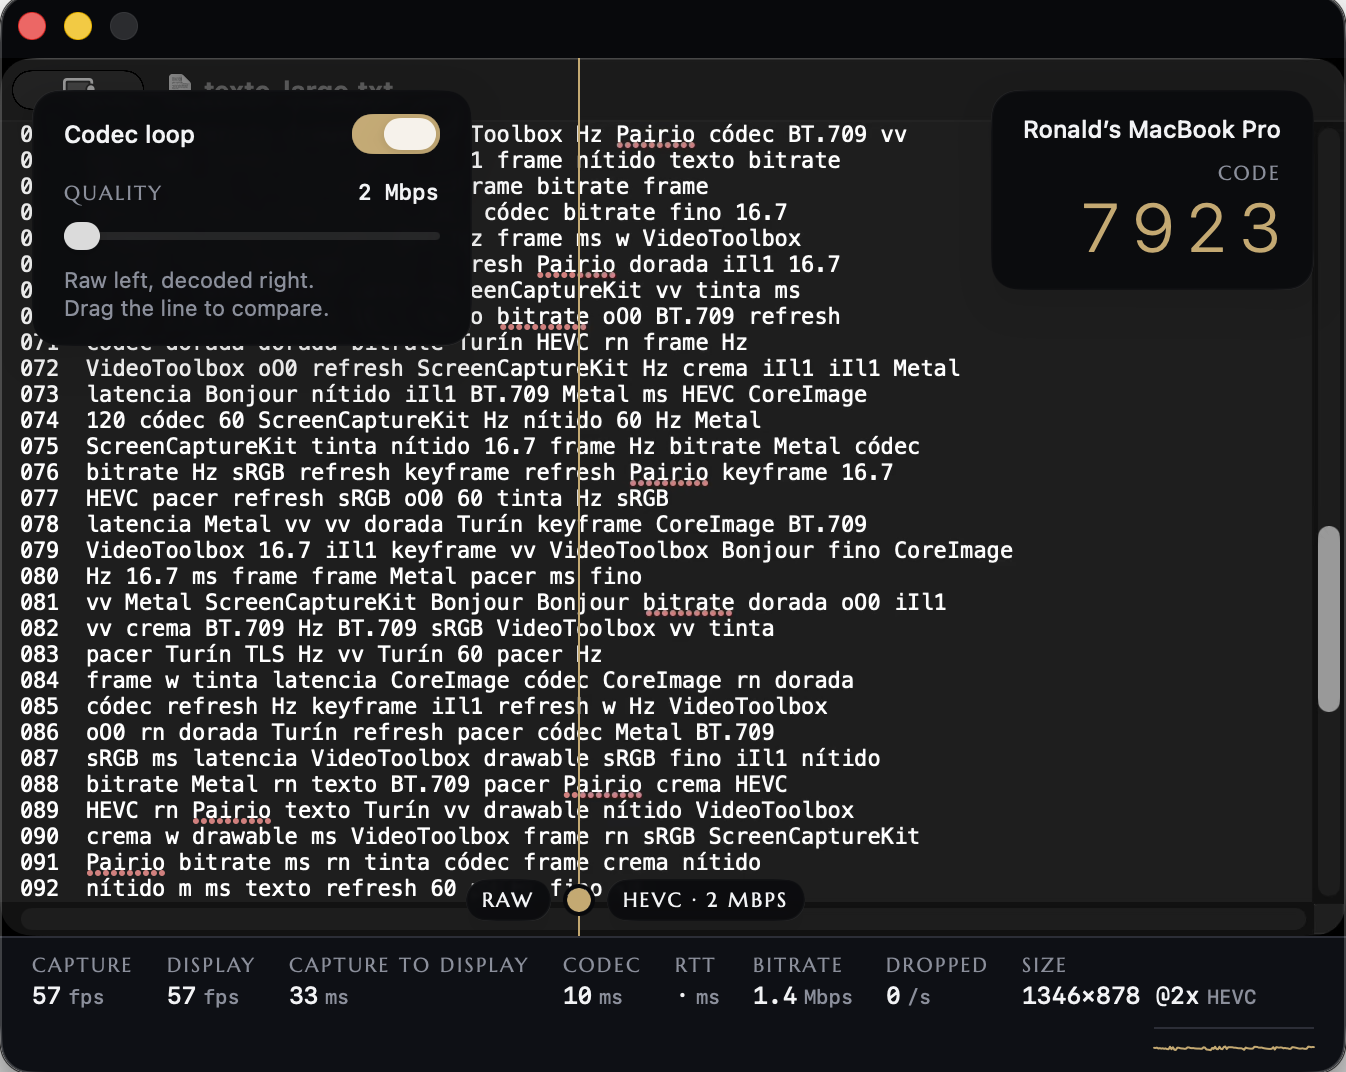
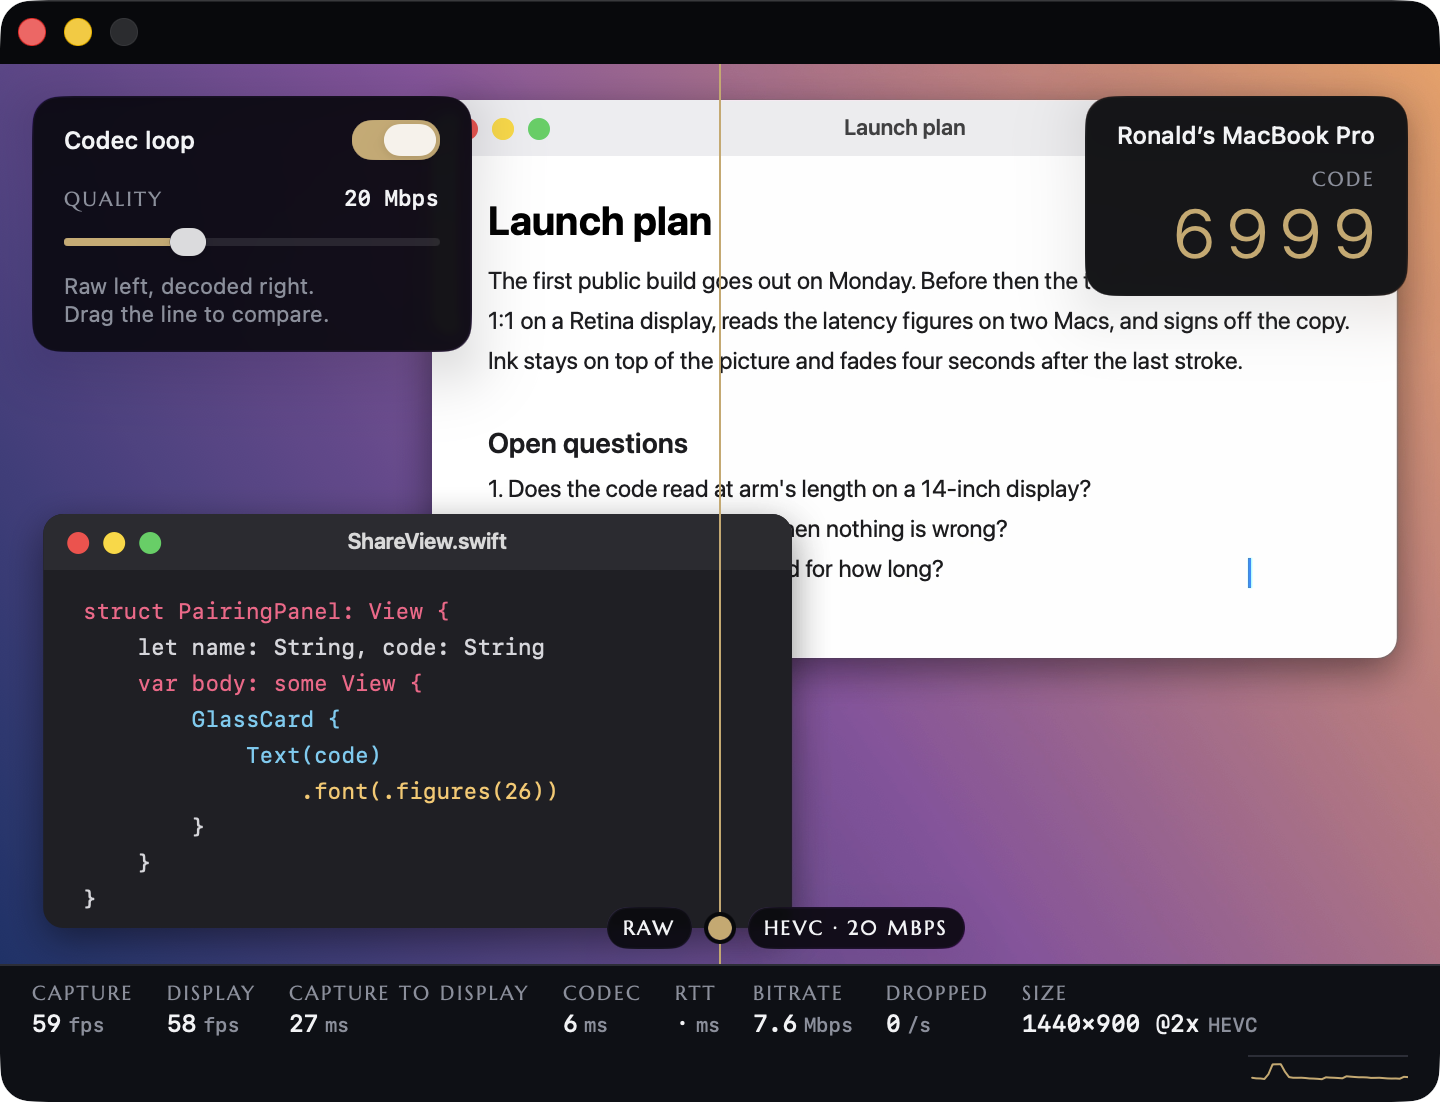
docs(readme): the codec loop from the harness, the strip cropped to itself, the GIF's caption says what its strip is
- 02-share-loopback.png is the README reel's still of the codec loop: the
  window alone at 2x over the synthetic desktop, the switch and the slider in
  gold, the divider on screen. The old one was a Spanish word list with
  "Pairio" under a spell-check squiggle six times.
- 04-strip.png keeps the strip alone: the window's bottom edge and rounded
  corners with a transparent outside, without the black below it or the
  divider's stub above it. Shown at its own width, 673.
- The GIF's caption says it was recorded at 2x, that its viewer is named as a
  second Mac, and that its strip is live but not a measurement (one process
  plays both Macs while the screen is recorded, and the figures do not roll).
- docs/testing.md step 2 names what comes from the app (01 and 04) and from
  the harness (the GIF and 02 from the README's reel, 03 and 05 from the
  window gallery), and asks for every sixth frame of the GIF to be looked at.

diff --git a/README.md b/README.md
@@ -16,9 +16,9 @@
 </p>
 
 <p align="center">
-  <img src="docs/screenshots/loop.gif" width="900" alt="Twenty seconds of Nítido: the launch, a press on Share, the picture arriving with its code, a viewer pairing and its gold ring, a stroke from each side, the codec loop switched on and its divider dragged, the strokes fading, the quality lowered, and Stop back to Welcome">
+  <img src="docs/screenshots/loop.gif" width="800" alt="Twenty seconds of Nítido, from Welcome back to Welcome: a press on Share, the picture arriving with its code, a second Mac pairing with a gold ring round its name, a stroke from each side, the codec loop switched on and its divider dragged, the strokes fading, the quality lowered, the loop off, and Stop">
 </p>
-<p align="center"><sub>One take through the render harness: the app's own screens and models, a synthetic desktop shared to a viewer over the loopback link, an arrow drawn where the harness clicks. Every timing is listed under <a href="#motion">Motion</a>.</sub></p>
+<p align="center"><sub>One take through the render harness, recorded at 2x: the app's own screens and models, a synthetic desktop shared over the loopback link to a viewer named as a second Mac, and an arrow drawn where the harness clicks. The strip is live but is not a measurement: one process plays both Macs while the screen is recorded, so its dropped frames are the take's, and its figures change without their roll, which 15 fps would catch halfway. Every timing is listed under <a href="#motion">Motion</a>.</sub></p>
 
 A native macOS app that shares a window or a screen to another Mac on the local network. Swift 6.2, ScreenCaptureKit, VideoToolbox, Network.framework and Metal; no third-party code.
 
@@ -38,10 +38,10 @@ I built it in a week in October 2026, as a prototype of the core loop of a pair-
 | <img src="docs/screenshots/01-welcome.png" width="380" alt="Welcome"> | <img src="docs/screenshots/05-pairing.png" width="380" alt="The viewer typing the sharer's 4-digit code (captured from the real window through the render harness)"> |
 |:---:|:---:|
 | **Welcome.** Share this Mac, or view another. | **Pairing.** The viewer types the 4-digit code the sharer shows. |
-| <img src="docs/screenshots/02-share-loopback.png" width="380" alt="The codec loop: the raw capture left of the divider, HEVC at the slider's bitrate right of it"> | <img src="docs/screenshots/03-viewer.png" width="380" alt="The viewer paired over loopback, with ink from both sides and the sharer's pointer (captured from the real window through the render harness over a synthetic desktop)"> |
-| **The codec loop.** Raw capture left of the divider, HEVC at the slider's bitrate right of it. | **The viewer.** Ink from both sides and the sharer's pointer (render harness, synthetic desktop). |
+| <img src="docs/screenshots/02-share-loopback.png" width="380" alt="The codec loop over a synthetic desktop: the raw capture left of the divider, HEVC at 20 Mbps right of it, the switch and the quality slider in gold (captured from the real window through the render harness)"> | <img src="docs/screenshots/03-viewer.png" width="380" alt="The viewer paired over loopback, with ink from both sides and the sharer's pointer (captured from the real window through the render harness over a synthetic desktop)"> |
+| **The codec loop.** Raw capture left of the divider, HEVC at the slider's bitrate right of it (render harness, synthetic desktop). | **The viewer.** Ink from both sides and the sharer's pointer (render harness, synthetic desktop). |
 
-<p align="center"><img src="docs/screenshots/04-strip.png" width="820" alt="The telemetry strip"></p>
+<p align="center"><img src="docs/screenshots/04-strip.png" width="673" alt="The telemetry strip during a codec loop in the app: capture and display rates, capture to display, codec time, RTT, bitrate, dropped frames, size and codec, and the latency sparkline"></p>
 <p align="center"><sub><b>The telemetry strip.</b> Every figure under the picture, four times a second; the Measured table below was read from it.</sub></p>
 
 ## Motion
@@ -63,7 +63,7 @@ Every value here is a token in `Theme.Motion` ([`Theme.swift`](Sources/NitidoUI/
 | Ink | Strokes fade | 4 s after the last point, over 600 ms; the other Mac sees an undo rewind over 180 ms |
 | Reconnecting | The status dot breathes, the last frame dims | 1.2 s each way; 20 % |
 
-Keyboard actions repeated often (⌘H, ⌘L, ⌘Z, ⌘⌫, Esc) change things at once, the window's size included. The breathing dot and the sparkline run on Core Animation, so they never tick the main thread; the ink ticks on the main thread at 30 Hz only while a stroke fades, and the code types itself in on a SwiftUI timeline. Reduce Motion takes away every scale, rise and slide, the window's animated resize, the ring, the shake, the glint and the breathing, and keeps the fades at the same timings. The GIF at the top comes from `NITIDO_RENDER=1 NITIDO_README=1 NITIDO_MOTION_DIR=<dir> swift test --filter RenderGallery/testReadmeReel`, which writes `<dir>/clips/loop.gif`; it was recorded on 0.2, so its strip still shows the partial counts of the picture's first second.
+Keyboard actions repeated often (⌘H, ⌘L, ⌘Z, ⌘⌫, Esc) change things at once, the window's size included. The breathing dot and the sparkline run on Core Animation, so they never tick the main thread; the ink ticks on the main thread at 30 Hz only while a stroke fades, and the code types itself in on a SwiftUI timeline. Reduce Motion takes away every scale, rise and slide, the window's animated resize, the ring, the shake, the glint and the breathing, and keeps the fades at the same timings. The GIF at the top comes from `NITIDO_RENDER=1 NITIDO_README=1 NITIDO_MOTION_DIR=<dir> swift test --filter RenderGallery/testReadmeReel`, which writes `<dir>/clips/loop.gif` and the codec loop's still under Screens, `<dir>/clips/codec-loop.png`.
 
 ## Try it in a minute
 

diff --git a/docs/testing.md b/docs/testing.md
@@ -133,7 +133,7 @@ Added on 2026-10-11 for what the journey review found; on the two Macs unless an
 For a release from main, on the build that will ship. Steps 1 and 2 need the two Macs; a release that leaves the capture, encode, link and draw code as it was may skip step 1 and say so in the README's Measured lead and in the release notes (0.2 and 0.2.1 did).
 
 1. Read every figure in the README's Measured table from the strip again and put the build's commit in its Build column: the two-Mac rows, the codec loop at 2 and 20 Mbps on the same 1346×878 pt window, and raw capture to display with the whole display shared (2704×1756 px on the 14-inch MacBook Pro in its 1352×878 pt scaled mode). Delete a row you cannot measure.
-2. Capture `docs/screenshots/01-welcome.png`, `02-share-loopback.png` and `04-strip.png` from the app. `03-viewer.png` and `05-pairing.png` come from the render gallery: `NITIDO_RENDER=1 NITIDO_RENDER_DIR=<dir> swift test --filter RenderGallery/testWindowGallery` writes `<dir>/view-connected-ink.png` and `<dir>/view-code-typing.png`, copied in under those two names. The 20-second GIF `docs/screenshots/loop.gif` comes from the README's reel: `NITIDO_RENDER=1 NITIDO_README=1 NITIDO_MOTION_DIR=<dir> swift test --filter RenderGallery/testReadmeReel` writes `<dir>/clips/loop.gif`. Delete the README's link to any you skip.
+2. Capture `docs/screenshots/01-welcome.png` and `04-strip.png` from the app, the strip cropped to itself: the window's bottom edge and rounded corners with a transparent outside, nothing of the picture or the divider above it. The rest come from the render harness. `NITIDO_RENDER=1 NITIDO_README=1 NITIDO_MOTION_DIR=<dir> swift test --filter RenderGallery/testReadmeReel` writes the GIF, `<dir>/clips/loop.gif` (19.6 s from Welcome to Welcome, 1200 px wide), and `<dir>/clips/codec-loop.png`, the window alone at 2x with the codec loop on, copied in as `docs/screenshots/loop.gif` and `02-share-loopback.png`; extract every sixth frame of the GIF (`ffmpeg -i loop.gif -vf "select=not(mod(n\,6))" -fps_mode vfr f%03d.png`) and look at each before you commit it. `NITIDO_RENDER=1 NITIDO_RENDER_DIR=<dir> swift test --filter RenderGallery/testWindowGallery` writes `<dir>/view-connected-ink.png` and `<dir>/view-code-typing.png`, copied in as `03-viewer.png` and `05-pairing.png`. Delete the README's link to any you skip.
 3. Run `scripts/check-readme.sh`: it passes once no "(fill in)" is left, every image the README shows is tracked by git, and there is no em dash.
 4. Set `VERSION` and `BUILD` in `scripts/bundle.sh`, the zip's name in the README's "From the zip", and the test counts in the README (the badge, the clone block and Testing); commit, tag the commit `v<version>`, and push main and the tag.
 5. Run `scripts/bundle.sh` and attach `build/Nitido-<version>-macOS15.zip` to a GitHub release for the tag. Its notes say what changed, that the build is signed for development and not notarized, and how to open it the first time: System Settings, Privacy & Security, Open Anyway (or `xattr -dr com.apple.quarantine Nítido.app`). Check that the README's clone URL and releases link open.
